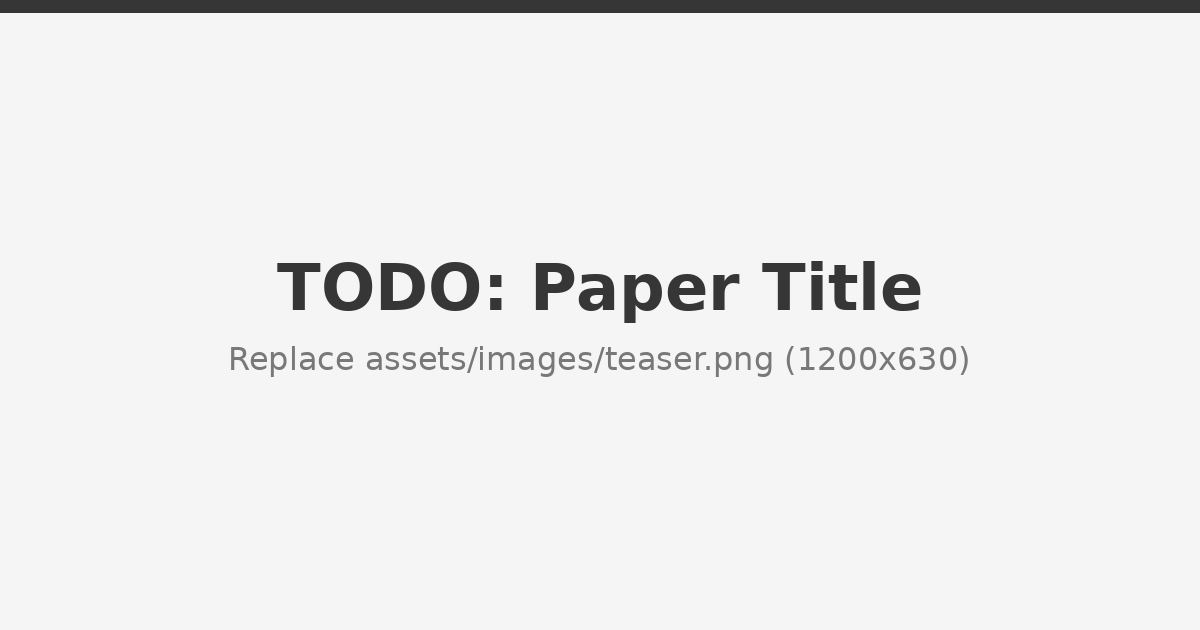
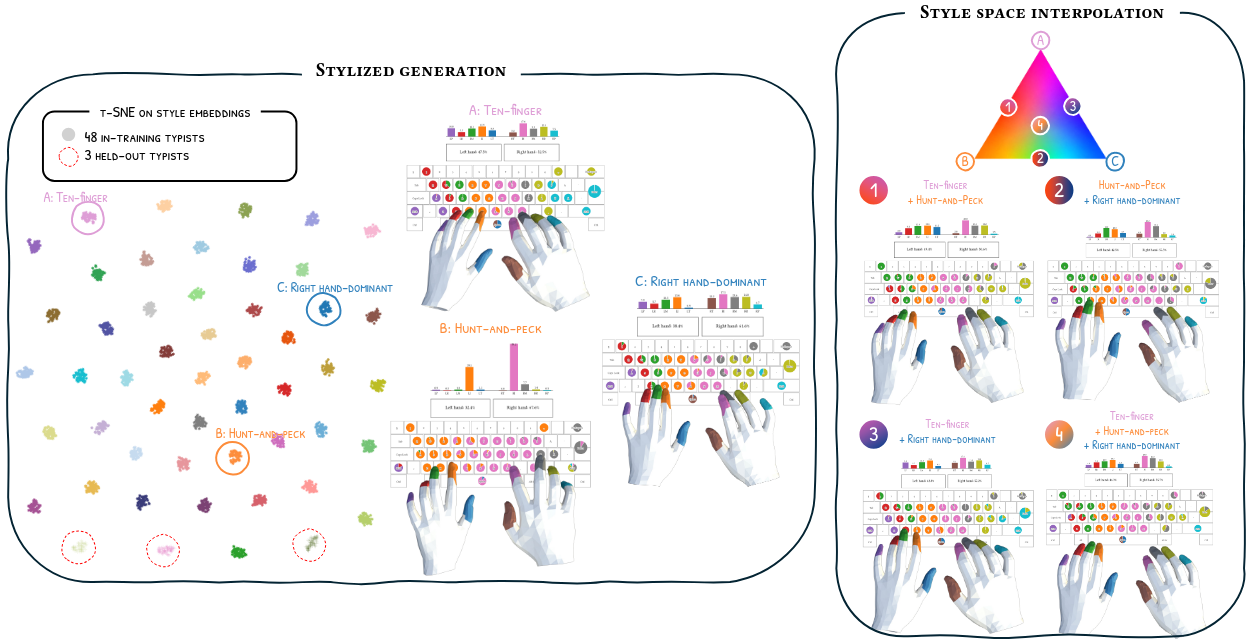
Add method and interpolation figures; loosen results table

diff --git a/assets/css/index.css b/assets/css/index.css
@@ -160,6 +160,21 @@ video {
   margin-top: 0.5rem;
 }
 
+/* Still figure under the teaser video. The scroll wrap handles its own bleed,
+   so undo the hero bleed on this block. */
+.hero .teaser-block.teaser-figure-block {
+  margin: 0.25rem 0 1rem;
+}
+
+.teaser-figure-block .section-media {
+  margin-top: 0;
+  border-radius: 0;
+}
+
+.teaser-figure-block .results-table-hint {
+  margin-top: 0.1rem;
+}
+
 /* ---------- Sections ---------- */
 
 .section {
@@ -185,6 +200,26 @@ video {
   height: auto;
   margin: 0.75rem auto 1rem auto;
   border-radius: 6px;
+}
+
+/* Wide diagrams: on phones, scroll sideways at a readable size instead of
+   shrinking to a thumbnail. Desktop shows them at natural width. */
+.section-media-wrap.is-scrollable {
+  overflow-x: auto;
+  -webkit-overflow-scrolling: touch;
+  margin: 0 -1rem;
+  padding: 0 1rem;
+  scrollbar-width: thin;
+}
+
+.section-media-wrap.is-scrollable .section-media {
+  width: var(--minw, 720px);
+  max-width: none;
+  margin-bottom: 0.25rem;
+}
+
+.section-media-wrap.is-scrollable + .results-table-hint {
+  margin-bottom: 0.75rem;
 }
 
 .publication-video {
@@ -366,6 +401,128 @@ video {
   transform: scale(1.25);
 }
 
+/* ---------- Results table ---------- */
+
+.results-table-wrap {
+  overflow-x: auto;
+  -webkit-overflow-scrolling: touch;
+  margin: 1rem -1rem 0.5rem; /* bleed to the phone edge so it hints scrollability */
+  padding: 0 1rem;
+  scrollbar-width: thin;
+}
+
+.results-table {
+  border-collapse: collapse;
+  width: 100%;
+  min-width: 30rem;
+  font-size: 0.9rem;
+  font-variant-numeric: tabular-nums;
+  line-height: 1.3;
+  background: #fff;
+}
+
+.results-table th,
+.results-table td {
+  padding: 0.6rem 0.85rem;
+  text-align: center !important;
+  vertical-align: middle;
+  white-space: nowrap;
+}
+
+.results-table td:not(.row-label),
+.results-table thead th:not(.row-label) {
+  min-width: 5.5rem;
+}
+
+.results-table thead th {
+  border-top: 2px solid #363636;
+  border-bottom: 1px solid #363636;
+  font-weight: 600;
+  color: #363636;
+}
+
+.results-table tbody tr:last-child td,
+.results-table tbody tr:last-child th {
+  border-bottom: 2px solid #363636;
+}
+
+.results-table .row-label {
+  text-align: left !important;
+  font-weight: 500;
+  color: #363636;
+  position: sticky;
+  left: 0;
+  background: inherit;
+  z-index: 1;
+  box-shadow: 2px 0 0 rgba(0, 0, 0, 0.04);
+}
+
+.results-table thead .row-label {
+  background: #fff;
+}
+
+.results-table tbody tr {
+  background: #fff;
+}
+
+.results-table tbody tr:nth-child(even) {
+  background: #fafafa;
+}
+
+.results-table tbody tr.is-highlight {
+  background: #fff7cc;
+}
+
+.results-table tbody tr.is-highlight .row-label {
+  font-weight: 700;
+}
+
+.results-table .dir {
+  color: #9a9a9a;
+  font-size: 0.85em;
+  margin-left: 0.15em;
+}
+
+.results-table .stat {
+  display: inline-flex;
+  flex-direction: column;
+  align-items: center;
+}
+
+.results-table .sd {
+  font-size: 0.75em;
+  color: #8a8a8a;
+  margin-top: 0.1em;
+}
+
+.results-table .is-best .v {
+  font-weight: 800;
+  color: #000;
+}
+
+.results-table .is-best .sd {
+  font-weight: 600;
+  color: #555;
+}
+
+.results-table-hint {
+  display: block;
+  text-align: center;
+  font-size: 0.75rem;
+  color: #9a9a9a;
+  margin-top: 0.35rem;
+}
+
+.results-table-note {
+  font-size: 0.85rem;
+  color: #6a6a6a;
+  margin-top: 0.5rem;
+}
+
+.results-table-note p:last-child {
+  margin-bottom: 0;
+}
+
 /* ---------- BibTeX ---------- */
 
 .bibtex-header {
@@ -451,6 +608,14 @@ video {
     padding: 0;
   }
 
+  .hero .teaser-block.teaser-figure-block {
+    margin: 0.5rem 0 1.25rem;
+  }
+
+  .teaser-figure-block .section-media {
+    border-radius: 6px;
+  }
+
   .section {
     padding: 3rem 1.5rem;
   }
@@ -492,6 +657,66 @@ video {
 
   #BibTeX pre {
     font-size: 0.875rem;
+  }
+
+  .results-table-wrap {
+    margin: 1.25rem 0 0.5rem;
+    padding: 0;
+  }
+
+  .results-table {
+    font-size: 0.95rem;
+    min-width: 0;
+  }
+
+  .results-table {
+    font-size: 1rem;
+    table-layout: fixed;
+  }
+
+  .results-table th,
+  .results-table td {
+    padding: 0.75rem 1rem;
+  }
+
+  .results-table .row-label {
+    width: 22%;
+  }
+
+  .results-table td:not(.row-label),
+  .results-table thead th:not(.row-label) {
+    min-width: 0;
+  }
+
+  /* Wide screens: mean and ± std on one line, like the paper. */
+  .results-table .stat {
+    flex-direction: row;
+    align-items: baseline;
+  }
+
+  .results-table .sd {
+    font-size: 0.85em;
+    margin-top: 0;
+    margin-left: 0.5em;
+  }
+
+  .section-media-wrap.is-scrollable {
+    overflow: visible;
+    margin: 0;
+    padding: 0;
+  }
+
+  .section-media-wrap.is-scrollable .section-media {
+    width: 100%;
+    max-width: 100%;
+  }
+
+  .results-table-note {
+    font-size: 0.9rem;
+  }
+
+  .results-table-hint {
+    display: none;
   }
 
   .footer {

diff --git a/_includes/table.html b/_includes/table.html
@@ -1,0 +1,41 @@
+{% comment %}
+Usage: {% include table.html table=some_table %}
+table:
+  columns: [{html, dir: up|down}]        # header cells; html may contain <sub>
+  rows:    [{html, highlight, cells: [{v, sd, best}]}]
+  note:    markdown footnote under the table
+{% endcomment %}
+{% assign tb = include.table %}
+{% if tb and tb.rows and tb.rows.size > 0 %}
+<div class="results-table-wrap">
+  <table class="results-table">
+    <thead>
+      <tr>
+        <th class="row-label">{{ tb.corner | default: "" }}</th>
+        {% for c in tb.columns %}
+        <th>
+          {{ c.html }}
+          {% if c.dir == "down" %}<span class="dir" title="lower is better">&darr;</span>{% elsif c.dir == "up" %}<span class="dir" title="higher is better">&uarr;</span>{% endif %}
+        </th>
+        {% endfor %}
+      </tr>
+    </thead>
+    <tbody>
+      {% for r in tb.rows %}
+      <tr{% if r.highlight %} class="is-highlight"{% endif %}>
+        <th class="row-label">{{ r.html }}</th>
+        {% for cell in r.cells %}
+        <td{% if cell.best %} class="is-best"{% endif %}>
+          <span class="stat"><span class="v">{{ cell.v }}</span>{% if cell.sd and cell.sd != "" %}<span class="sd">&plusmn;&nbsp;{{ cell.sd }}</span>{% endif %}</span>
+        </td>
+        {% endfor %}
+      </tr>
+      {% endfor %}
+    </tbody>
+  </table>
+</div>
+<span class="results-table-hint" aria-hidden="true">&larr; swipe sideways for all columns &rarr;</span>
+{% if tb.note and tb.note != "" %}
+<div class="results-table-note content">{{ tb.note | markdownify }}</div>
+{% endif %}
+{% endif %}

diff --git a/_includes/sections.html b/_includes/sections.html
@@ -14,12 +14,18 @@
           <source src="{{ s.video | relative_url }}" type="video/mp4">
         </video>
         {% elsif s.image and s.image != "" %}
-        <img class="section-media" src="{{ s.image | relative_url }}" alt="{{ s.title }}" loading="lazy" decoding="async">
+        <div class="section-media-wrap{% if s.image_min_width %} is-scrollable{% endif %}"{% if s.image_min_width %} style="--minw: {{ s.image_min_width }}px"{% endif %}>
+          <img class="section-media" src="{{ s.image | relative_url }}" alt="{{ s.image_alt | default: s.title }}" loading="lazy" decoding="async">
+        </div>
+        {% if s.image_min_width %}<span class="results-table-hint" aria-hidden="true">&larr; swipe sideways to see the whole figure &rarr;</span>{% endif %}
         {% endif %}
         {% if s.text and s.text != "" %}
         <div class="content has-text-justified">
           {{ s.text | markdownify }}
         </div>
+        {% endif %}
+        {% if s.table %}
+        {% include table.html table=s.table %}
         {% endif %}
       </div>
     </div>

diff --git a/_includes/teaser.html b/_includes/teaser.html
@@ -49,3 +49,12 @@
   {% if t.caption and t.caption != "" %}<p class="teaser-caption">{{ t.caption }}</p>{% endif %}
 </div>
 {% endif %}
+{% if t.figure and t.figure != "" %}
+<div class="teaser-block teaser-figure-block">
+  <div class="section-media-wrap{% if t.figure_min_width %} is-scrollable{% endif %}"{% if t.figure_min_width %} style="--minw: {{ t.figure_min_width }}px"{% endif %}>
+    <img class="section-media teaser-figure" src="{{ t.figure | relative_url }}" alt="{{ t.figure_alt | default: site.data.paper.title }}" fetchpriority="high" decoding="async">
+  </div>
+  {% if t.figure_min_width %}<span class="results-table-hint" aria-hidden="true">&larr; swipe sideways to see the whole figure &rarr;</span>{% endif %}
+  {% if t.figure_caption and t.figure_caption != "" %}<p class="teaser-caption">{{ t.figure_caption }}</p>{% endif %}
+</div>
+{% endif %}

diff --git a/index.html b/index.html
@@ -15,5 +15,5 @@ layout: default
 {% include youtube.html %}
 {% include carousel.html %}
 {% include sections.html %}
-{% include acknowledgements.html %}
-{% include bibtex.html %}
+<!-- {% include acknowledgements.html %} -->
+<!-- {% include bibtex.html %} -->
